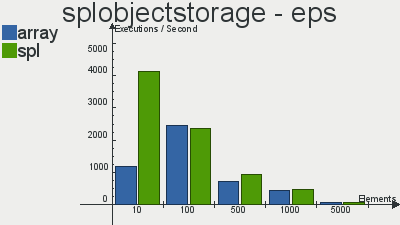
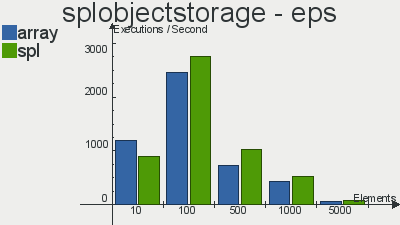
Corrected an error in splobjectstorage-spl.php and updated raw.csv and the related PNG chart images to account for the correction

diff --git a/tests/splobjectstorage-spl.php b/tests/splobjectstorage-spl.php
@@ -2,5 +2,5 @@
 $a = new SplObjectStorage;
 for ($i = 0; $i < $argv[1]; $i++) {
     $object = new stdClass;
-    $a->attach($object);
+    $a->attach($object, $object);
 }
